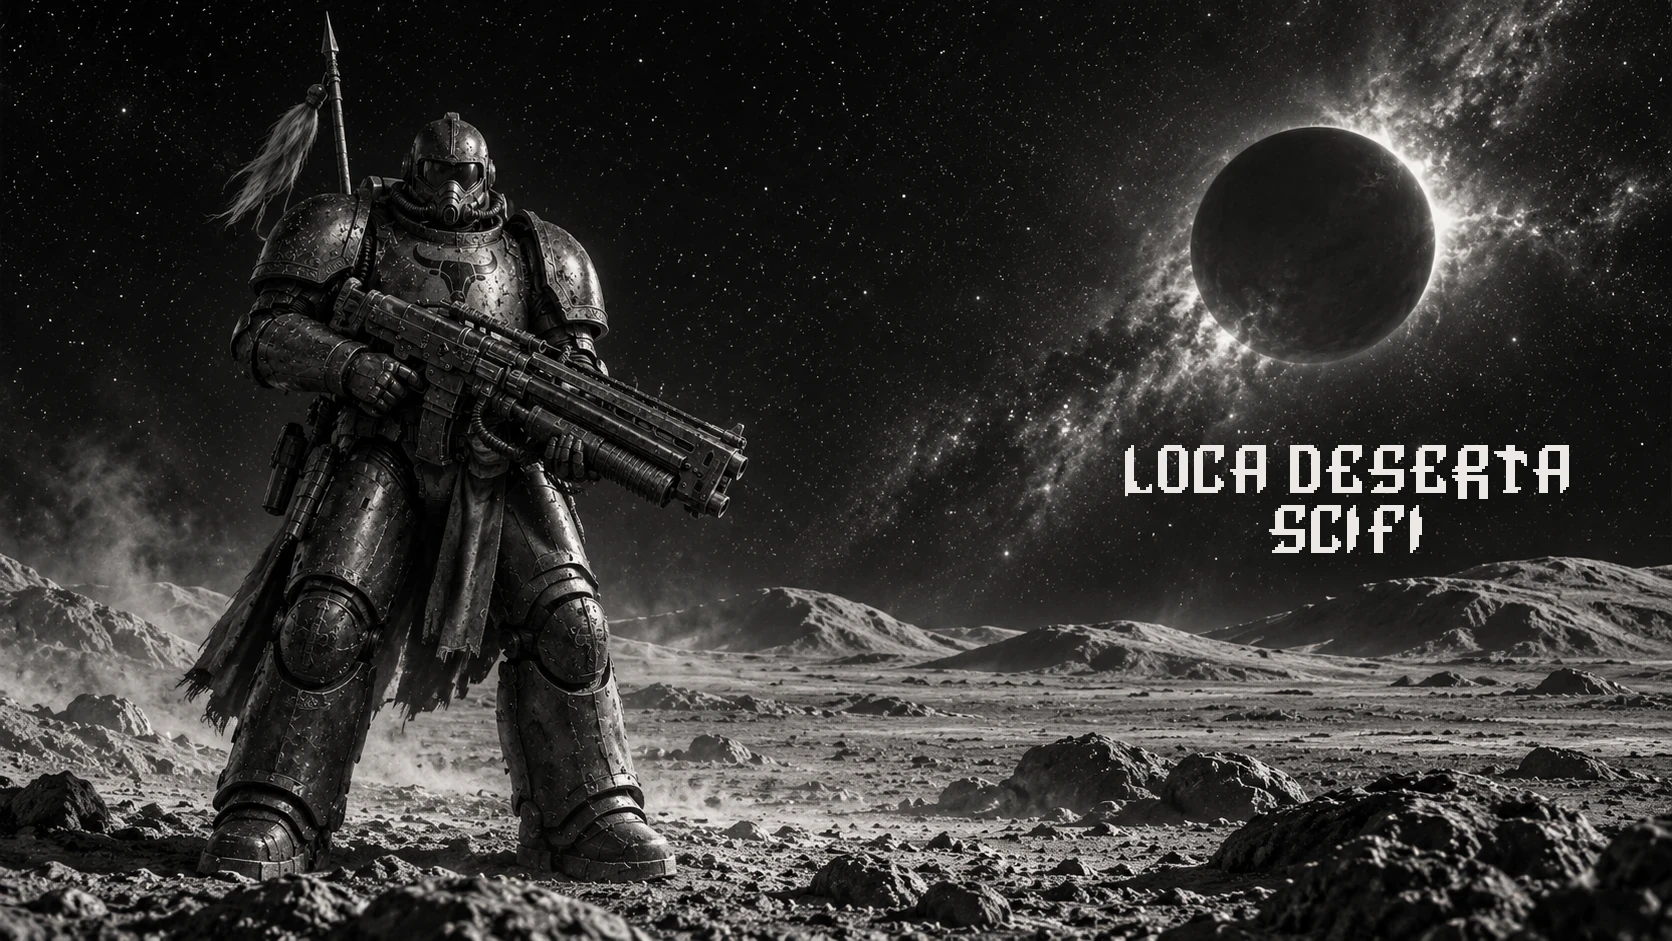
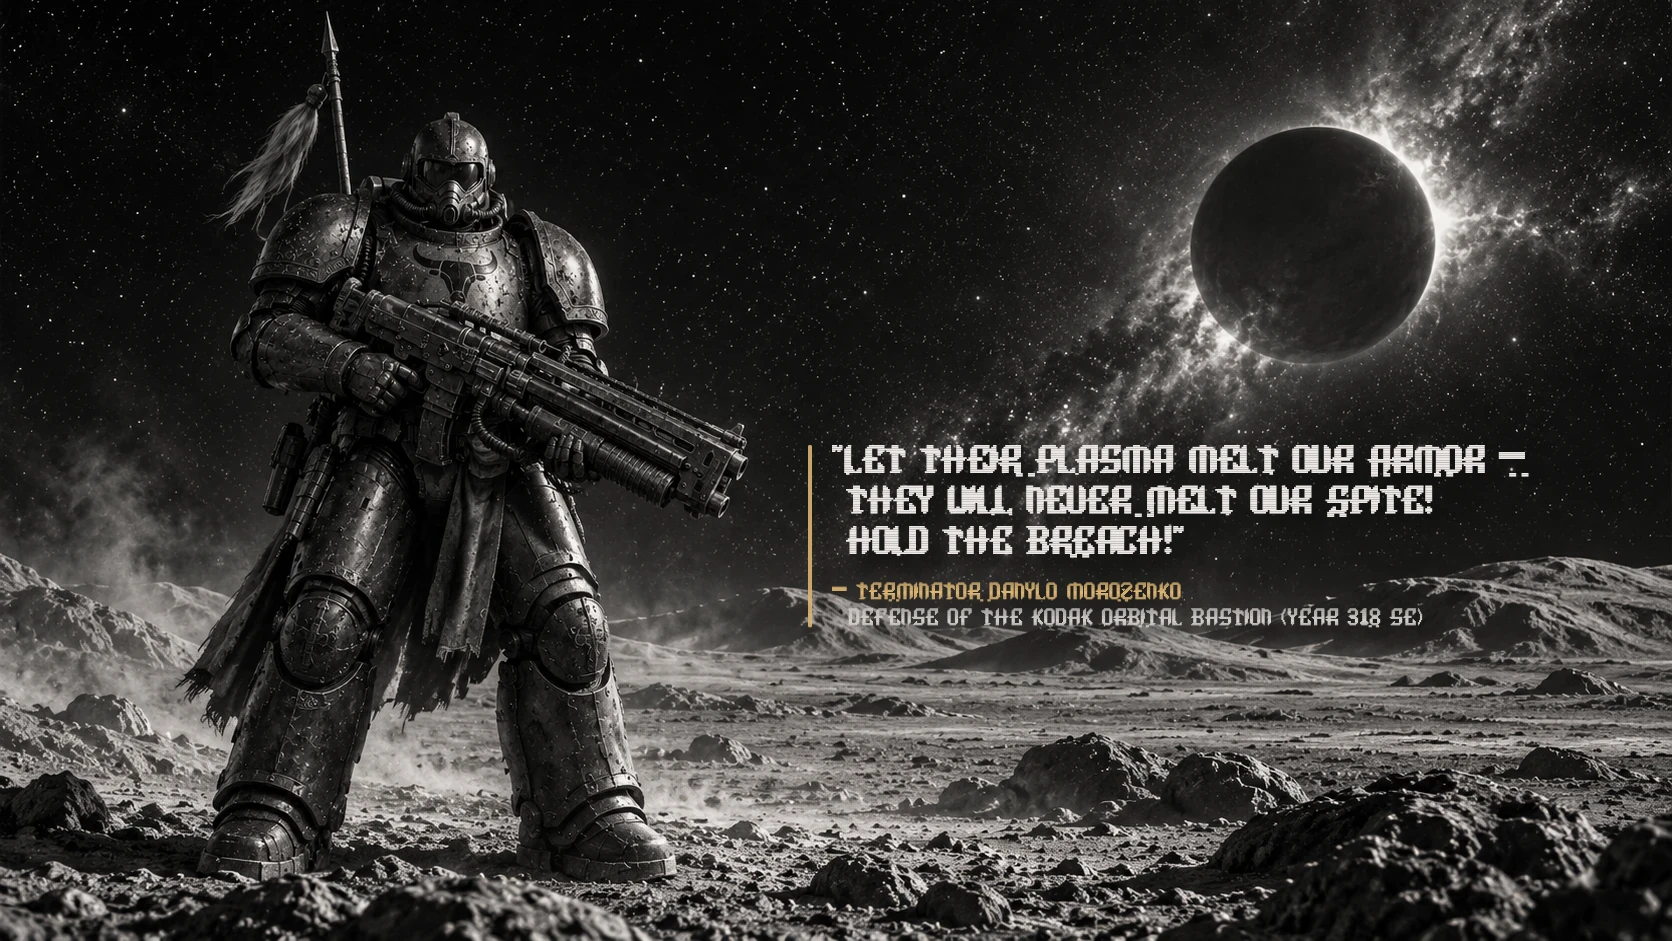
Enhance Background.webp with Total War style quote by Danylo Morozenko

Changed region(s): [[0.4976, 0.4623, 0.9641, 0.678]]

diff --git a/README.md b/README.md
@@ -36,7 +36,7 @@ Active window borders run a 45° gradient from starlight corona white to weather
 
 Hetmanate Terminator assault troopers on lunar / airless asteroid combat operations:
 
-1. `Background.webp` — Terminator infantry rifleman in heavy space combat suit against an eclipse
+1. `Background.webp` — Terminator infantry rifleman Danylo Morozenko with Kodak Orbital Bastion quote
 2. `Terminator-2.webp` — Terminator mounted on cybernetic combat steed
 3. `Terminators-3.webp` — Terminator cavalry squadron charging across lunar plains
 4. `Trio-Terminator.webp` — Trio of heavy Cossack Terminator cyber-cavalry with bunchuk standard under an eclipse
